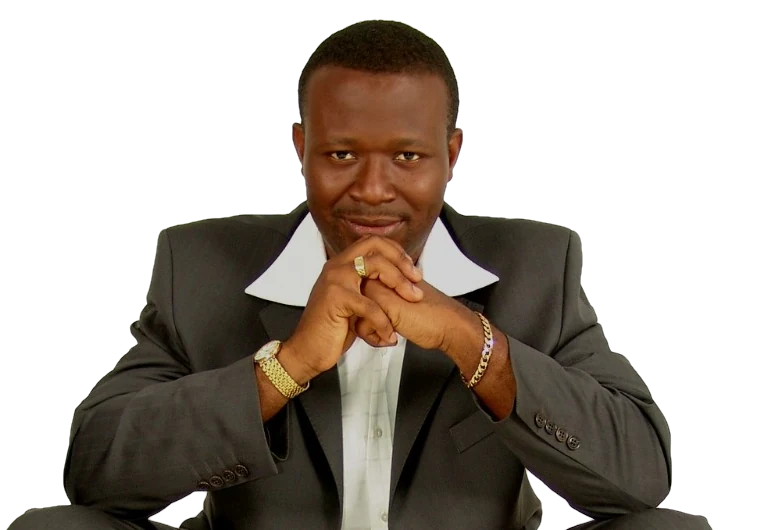
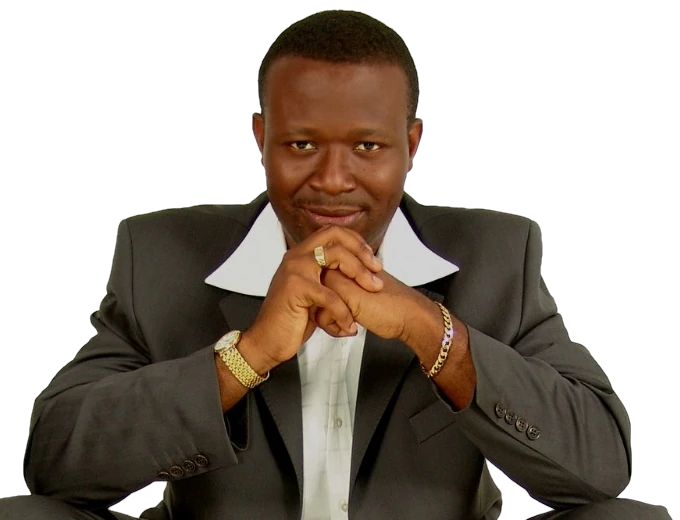
Home: larger, tighter crop of Jide so the photo fills the right half
Claude-Session: https://claude.ai/code/session_01B9YkQRDeQEmEXedvwh4iPi

Changed region(s): [[0.0, 0.0, 0.9882, 1.0], [0.4941, 0.7385, 0.5868, 0.8923], [0.4941, 0.8923, 0.525, 0.9538]]

diff --git a/styles.css b/styles.css
@@ -423,10 +423,10 @@ body.playing .eq i{animation-duration:calc(var(--s,1.4s)*.45)}
 .hero__tagline em{color:var(--brass)}
 .hero__text .hero__lede{margin:0 0 1.5rem;max-width:46ch}
 @media (min-width:820px){
-  .hero.hero--photo{display:grid;grid-template-columns:1fr 1fr;align-items:center;gap:32px;padding-top:112px;padding-bottom:56px;min-height:min(100svh,880px)}
-  .hero__portrait{order:0;margin:0;height:min(72svh,640px);min-height:0;-webkit-mask-image:linear-gradient(180deg,#000 72%,transparent 100%);mask-image:linear-gradient(180deg,#000 72%,transparent 100%)}
+  .hero.hero--photo{display:grid;grid-template-columns:.9fr 1.1fr;align-items:center;gap:32px;padding-top:112px;padding-bottom:56px;min-height:min(100svh,880px)}
+  .hero__portrait{order:0;margin:0;width:100%;height:auto;aspect-ratio:680/520;max-height:80svh;min-height:0;-webkit-mask-image:linear-gradient(180deg,#000 72%,transparent 100%);mask-image:linear-gradient(180deg,#000 72%,transparent 100%)}
   .hero__portrait::before{inset:8% -6% 4%;background:radial-gradient(closest-side at 50% 46%,rgba(201,162,75,.55),rgba(201,162,75,.16) 58%,transparent 80%)}
-  .hero__portrait img{object-fit:contain;object-position:50% 100%}
+  .hero__portrait img{object-fit:cover;object-position:50% 0}
   .hero__text{margin-top:0}
   .hero__name{width:min(100%,clamp(380px,36vw,520px))}
   .hero__tagline{font-size:clamp(1.6rem,2.6vw,2.2rem)}

diff --git a/index.html b/index.html
@@ -69,7 +69,7 @@
     </div>
     <div class="hero__portrait">
       <picture>
-        <source media="(min-width:820px)" srcset="images/jide-hero-half.webp" width="760" height="530">
+        <source media="(min-width:820px)" srcset="images/jide-hero-half.webp" width="680" height="520">
         <img src="images/jide-hero-close.webp" alt="Jide Arowolo seated with his hands clasped, smiling" width="900" height="1200" fetchpriority="high">
       </picture>
     </div>

diff --git a/handoff/build_prototype.py b/handoff/build_prototype.py
@@ -170,7 +170,7 @@ home = '''<div class="hero-wrap">
     </div>
     <div class="hero__portrait">
       <picture>
-        <source media="(min-width:820px)" srcset="images/jide-hero-half.webp" width="760" height="530">
+        <source media="(min-width:820px)" srcset="images/jide-hero-half.webp" width="680" height="520">
         <img src="images/jide-hero-close.webp" alt="Jide Arowolo seated with his hands clasped, smiling" width="900" height="1200" fetchpriority="high">
       </picture>
     </div>
